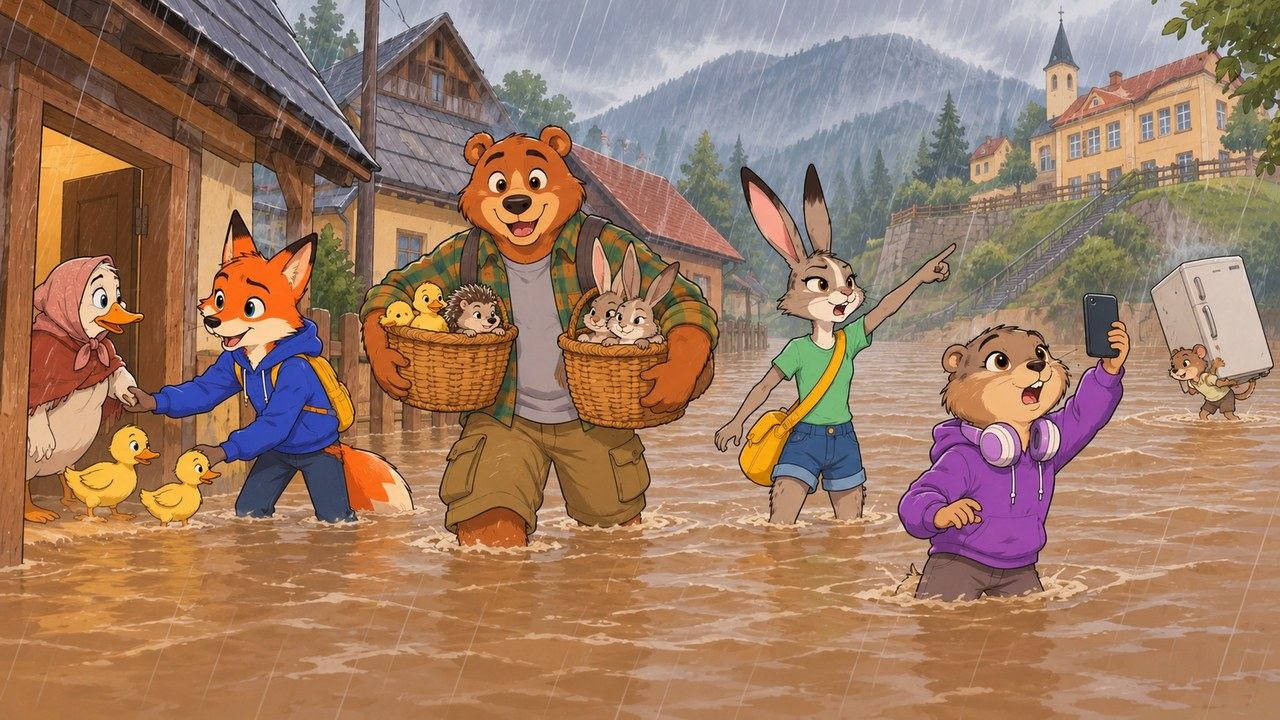
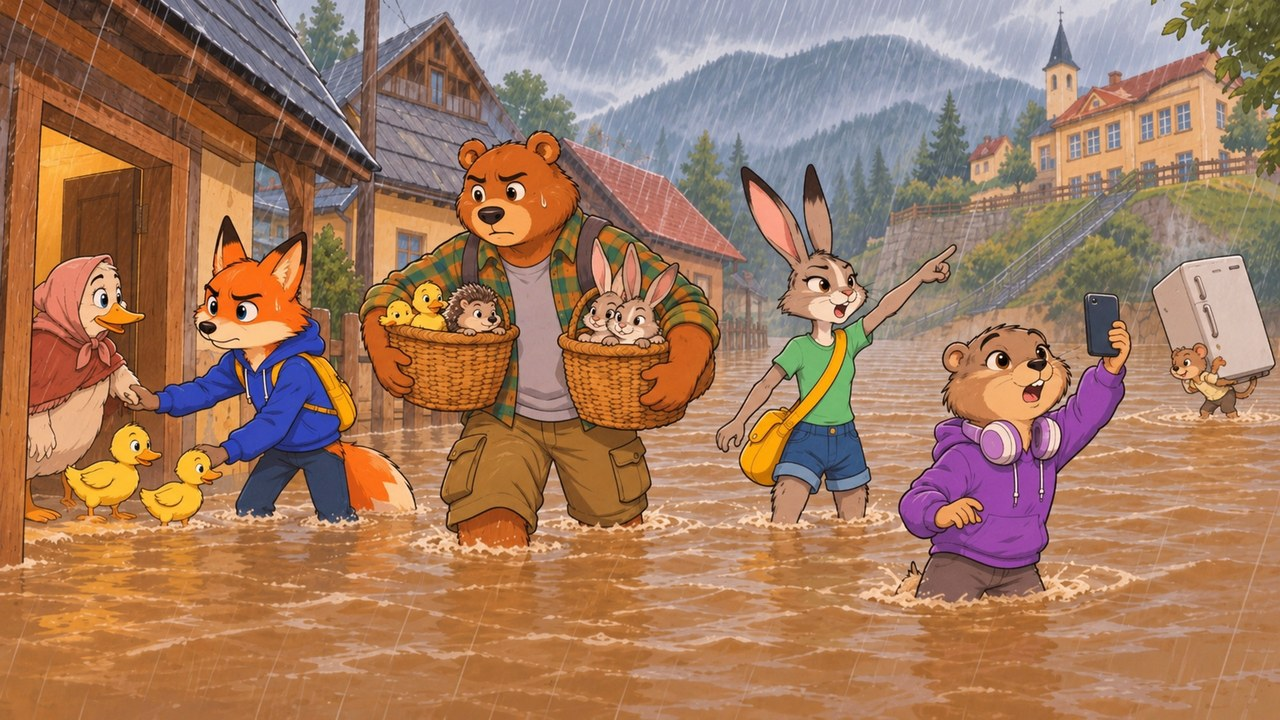
Illustrations Friends : Košice refaite, Povodeň retouchée, scène 13 Sen
Claude-Session: https://claude.ai/code/session_01VgBQmvtNzpdYvTQXwXDqpK

diff --git a/img/credits.md b/img/credits.md
@@ -83,7 +83,7 @@ La légende de chaque image, dans la fiche, rappelle aussi l'auteur et la licenc
 | `10_Series_13_Sen_02_mam-pocit.md` | `flasa-voda.jpg` | [La chaleur à Paris, fillette prenant de l'eau à une borne-fontaine, 1921 - Gallica.jpg](https://commons.wikimedia.org/wiki/File:La_chaleur_%C3%A0_Paris,_fillette_prenant_de_l'eau_%C3%A0_une_borne-fontaine,_1921_-_Gallica.jpg) | Agence Rol | Public domain |
 | `10_Series_13_Sen_03_mokre-ponozky.md` | `rosa-trava.jpg` | [Dew Drops on Grass in shahkot, Punjab, Pakistan.jpg](https://commons.wikimedia.org/wiki/File:Dew_Drops_on_Grass_in_shahkot,_Punjab,_Pakistan.jpg) | Salman Munir | CC BY-SA 4.0 |
 | `10_Series_13_Sen_04_snivalo-sa-mi.md` | `mapa-slovenska.jpg` | [Relief Map of Slovakia 2.png](https://commons.wikimedia.org/wiki/File:Relief_Map_of_Slovakia_2.png) | derivative work Виктор_В | CC BY-SA 3.0 |
-| `10_Series_13_Sen_05_dobry-sen.md` | `halusky.jpg` | [Bryndzové halušky so slaninou.jpg](https://commons.wikimedia.org/wiki/File:Bryndzov%C3%A9_halu%C5%A1ky_so_slaninou.jpg) | Gregory finster | CC0 |
+| `10_Series_13_Sen_05_dobry-sen.md` | `illus_13_sen.jpg` | Illustration générée avec ChatGPT, d'après la photo [Green apples on tree](https://commons.wikimedia.org/wiki/File:2018-07-16_Green_apples_on_tree.jpg) de Maksym Kozlenko (Wikimedia Commons) | CC BY-SA 4.0 (œuvre dérivée, même licence) |
 | `10_Series_13_Sen_06_extra.md` | `jablon-okno.jpg` | [2026.08.27 Sakovichi Sakovičy Wooden House Salihorsk District Minsk Region Belarus 02.jpg](https://commons.wikimedia.org/wiki/File:2026.08.27_Sakovichi_Sakovi%C4%8Dy_Wooden_House_Salihorsk_District_Minsk_Region_Belarus_02.jpg) | Tess Mattew | CC BY-SA 4.0 |
 
 ## Illustrations générées (ChatGPT)
@@ -93,7 +93,7 @@ Faites d'après `docs/Prompts-illustrations.md`, avec les planches de personnage
 | Fiche | Fichier | Photo de référence | Licence |
 |---|---|---|---|
 | `00_Introduction_01_bienvenue.md` | `illus_00_couverture.jpg` | aucune | générée pour ce projet (2026) |
-| `10_Series_01_Kosice_05_v-elektricke.md` | `illus_01_kosice.jpg` | [Košice - Hlavná… Ringhoffer tram… (June 2006) 01.jpg](https://commons.wikimedia.org/wiki/File:Ko%C5%A1ice_-_Hlavn%C3%A1_(Main_street)_-_Historic_Ringhoffer_tram,_green_livery_and_Zlat%C3%BD_ba%C5%BEant_sponsor_livery,_at_the_Lower_Gate,_Old_Town,_Ko%C5%A1ice_(June_2006)_01.jpg), ZemplinTemplar | CC BY-SA 4.0 (œuvre dérivée) |
+| `10_Series_01_Kosice_05_v-elektricke.md` | `illus_01_kosice.jpg` | Illustration générée avec ChatGPT, sans photo de référence | Image générée (pas de photo source) |
 | `10_Series_02_Sucho_05_fontana.md` | `illus_02_sucho.jpg` | [Spievajúca fontána, Košice, 2026 (5).jpg](https://commons.wikimedia.org/wiki/File:Spievaj%C3%BAca_font%C3%A1na,_Ko%C5%A1ice,_2026_(5).jpg), Antimuonium | CC BY-SA 4.0 (œuvre dérivée) |
 | `10_Series_03_Raj_05_roklina.md` | `illus_03_raj.jpg` | [Slovensky raj, Sucha Bela, 03.jpg](https://commons.wikimedia.org/wiki/File:Slovensky_raj,_Sucha_Bela,_03.jpg), dariusz wozniak | CC BY-SA 3.0 (œuvre dérivée) |
 | `10_Series_04_Burka_05_spis.md` | `illus_04_burka.jpg` | [Teryho chata I.jpg](https://commons.wikimedia.org/wiki/File:Teryho_chata_I.jpg), Kristo | CC BY-SA 3.0 (œuvre dérivée) |

diff --git a/docs/Prompts-illustrations.md b/docs/Prompts-illustrations.md
@@ -294,7 +294,7 @@ Scene: A live TV news studio inside Bratislava Castle at dusk, wide landscape fo
 Style: Classic 2D hand-drawn animated-film style (not 3D): clean ink outlines, flat colours with soft cel shading. Any humans are drawn in the same simple cartoon style as the animals: simplified shapes, flat colours, few details on faces and hair, no realistic or semi-realistic faces. Soft, painterly background with few small details, so the characters stand out, but the place stays recognisable. Landscape format. No text, no letters, no logos, no channel logo, no watermark.
 ```
 
-## 13 Sen — Sous le pommier
+## 13 Sen — Sous le pommier ✅ faite le 10 novembre (ChatGPT, planche des héros + photo ; retouche des expressions)
 
 Fiche `10_Series_13_Sen_05_dobry-sen.md` → `img/illus_13_sen.jpg`
 
@@ -317,8 +317,8 @@ Style: Classic 2D hand-drawn animated-film style (not 3D): clean ink outlines, f
 | Image | Pourquoi | Priorité |
 |---|---|---|
 | 02 Sucho | Le carnet est trouvé dans cette scène : il doit se voir. | ✅ fait le 10 novembre (ChatGPT, avec la planche des nouveaux rôles) |
-| 01 Košice | Les passagers humains ressemblent à des enfants ; le cours n'a que des humains adultes. | à faire |
-| 06 Povodeň | Les visages sourient trop pour une inondation (déjà noté). | à faire |
+| 01 Košice | Les passagers humains ressemblent à des enfants ; le cours n'a que des humains adultes. | ✅ refaite le 10 novembre (planche des héros seule, sans photo ; intérieur du tram simplifié, quatre passagers adultes) |
+| 06 Povodeň | Les visages sourient trop pour une inondation (déjà noté). | ✅ fait le 10 novembre (visages concentrés, décor redessiné) |
 | 03 Raj | pán Orol leur remet une page du carnet. | facultatif |
 | 05 Domov | Babka sort l'enveloppe de la loutre. | facultatif |
 

diff --git a/md/10_Series_13_Sen_05_dobry-sen.md b/md/10_Series_13_Sen_05_dobry-sen.md
@@ -1,6 +1,6 @@
 # Série Sen (5/5) — Dobrý sen
 
-@ img/halusky.jpg | Une assiette de bryndzové halušky. Source : Wikimedia Commons, Gregory finster, CC0
+@ img/illus_13_sen.jpg | Au petit matin, sous le pommier : Gab raconte son « rêve » et Andrea l'écoute, de moins en moins amusée. Source : illustration générée avec ChatGPT, d'après une photo de Maksym Kozlenko (Wikimedia Commons, CC BY-SA 4.0)
 
 {{fr:Tu racontes tout. La sécheresse, l'orage, l'inondation, la route, le datacentre, la mine. Andrea écoute. Et bizarrement, beaucoup de détails sont… vrais.}}
 

diff --git a/md/10_Series_01_Kosice_05_v-elektricke.md b/md/10_Series_01_Kosice_05_v-elektricke.md
@@ -1,6 +1,6 @@
 # Série Košice (5/5) — V električke
 
-@ img/illus_01_kosice.jpg | Dans le tram, devant la cathédrale : tu parles, tu parles… Source : illustration générée avec ChatGPT, d'après une photo de ZemplinTemplar (Wikimedia Commons, CC BY-SA 4.0)
+@ img/illus_01_kosice.jpg | Dans le tram, devant la cathédrale : tu parles, tu parles… Source : illustration générée avec ChatGPT
 
 {{fr:Le tram traverse Košice. Tu es tellement content d'être là que tu parles, tu parles… et Andrea a une théorie sur les renards.}}
 
